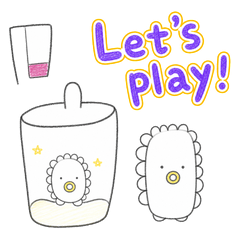
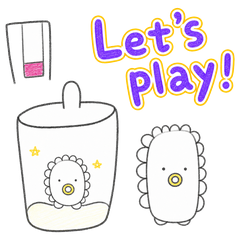
modi

diff --git a/src/styles.css b/src/styles.css
@@ -3,6 +3,8 @@
   --surface-primary: #f7fbff;
   --surface-secondary: #ffffff;
   --surface-soft: #eef7ff;
+  --surface-checker-light: #ffffff;
+  --surface-checker-dark: #e8f1fb;
   --text-primary: #182235;
   --text-secondary: #526174;
   --text-inverse: #ffffff;
@@ -259,7 +261,18 @@ h1 {
   overflow: hidden;
   border: 1px solid var(--border-default);
   border-radius: 16px;
-  background: var(--surface-secondary);
+  background:
+    linear-gradient(45deg, var(--surface-checker-dark) 25%, transparent 25%),
+    linear-gradient(-45deg, var(--surface-checker-dark) 25%, transparent 25%),
+    linear-gradient(45deg, transparent 75%, var(--surface-checker-dark) 75%),
+    linear-gradient(-45deg, transparent 75%, var(--surface-checker-dark) 75%),
+    var(--surface-checker-light);
+  background-position:
+    0 0,
+    0 12px,
+    12px -12px,
+    -12px 0;
+  background-size: 24px 24px;
 }
 
 .image-frame img {
@@ -280,7 +293,18 @@ h1 {
   gap: var(--space-4);
   padding: max(var(--space-4), env(safe-area-inset-top)) var(--space-4)
     max(var(--space-4), env(safe-area-inset-bottom));
-  background: var(--surface-secondary);
+  background:
+    linear-gradient(45deg, var(--surface-checker-dark) 25%, transparent 25%),
+    linear-gradient(-45deg, var(--surface-checker-dark) 25%, transparent 25%),
+    linear-gradient(45deg, transparent 75%, var(--surface-checker-dark) 75%),
+    linear-gradient(-45deg, transparent 75%, var(--surface-checker-dark) 75%),
+    var(--surface-checker-light);
+  background-position:
+    0 0,
+    0 12px,
+    12px -12px,
+    -12px 0;
+  background-size: 24px 24px;
 }
 
 .save-sheet-toolbar {
@@ -288,6 +312,11 @@ h1 {
   align-items: center;
   justify-content: space-between;
   gap: var(--space-3);
+  padding: var(--space-3);
+  border: 1px solid var(--border-default);
+  border-radius: 16px;
+  background: rgb(255 255 255 / 0.94);
+  box-shadow: var(--shadow-subtle);
 }
 
 .save-sheet-toolbar p {

diff --git a/DESIGN.md b/DESIGN.md
@@ -13,6 +13,8 @@
 | Surface/primary | --surface-primary | #f7fbff | #111827 | Page background |
 | Surface/secondary | --surface-secondary | #ffffff | #1f2937 | Cards and panels |
 | Surface/soft | --surface-soft | #eef7ff | #243447 | Instruction areas |
+| Surface/checker-light | --surface-checker-light | #ffffff | #1f2937 | Transparent image preview tiles |
+| Surface/checker-dark | --surface-checker-dark | #e8f1fb | #334155 | Transparent image preview tiles |
 | Text/primary | --text-primary | #182235 | #f9fafb | Headlines and body |
 | Text/secondary | --text-secondary | #526174 | #cbd5e1 | Hints |
 | Text/inverse | --text-inverse | #ffffff | #111827 | Accent buttons |
@@ -109,6 +111,13 @@ All spacing derives from 4px.
 - **States**: default, image loading failure.
 - **Accessibility**: image has alt text; save button opens native file sharing when available and falls back to PNG download.
 - **Motion**: card uses static depth; image long-press is never blocked.
+
+### Image Frame
+- **Structure**: bordered preview well inside a material card.
+- **Variants**: checker background for transparent PNG/SVG previews, image-error.
+- **Spacing**: fixed minimum height with centered image.
+- **Accessibility**: decorative checker pattern must stay subtle and never reduce image legibility.
+- **Motion**: none.
 
 ### Save Sheet
 - **Structure**: full-screen overlay with one large image, one short instruction, and close action.
